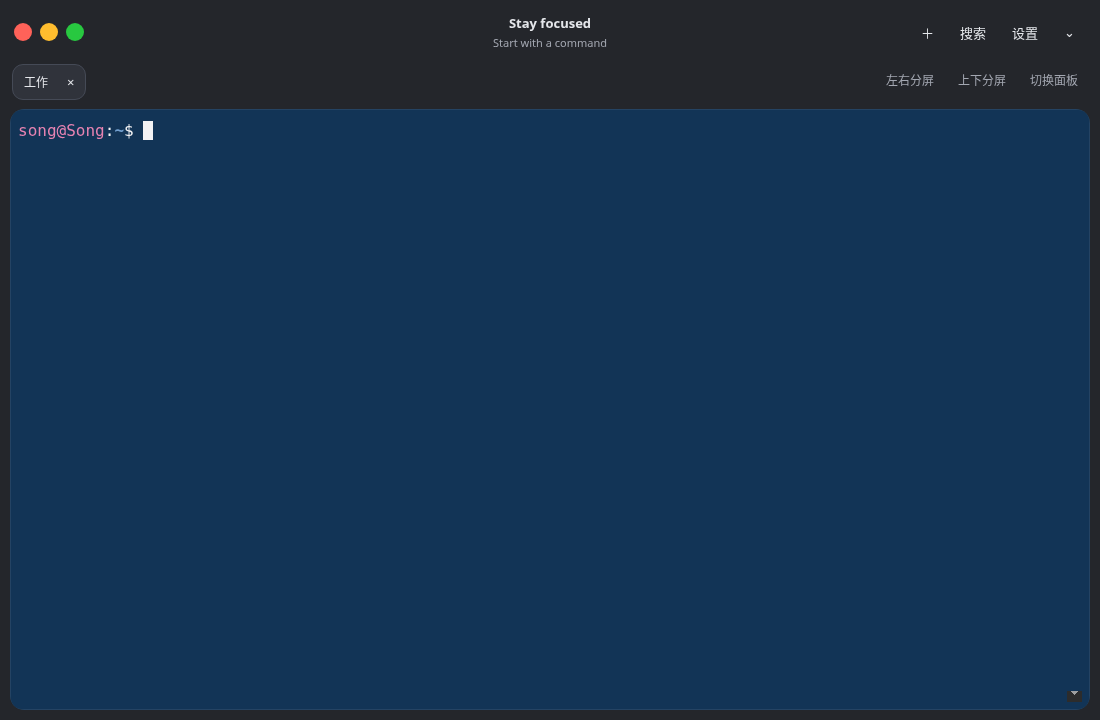
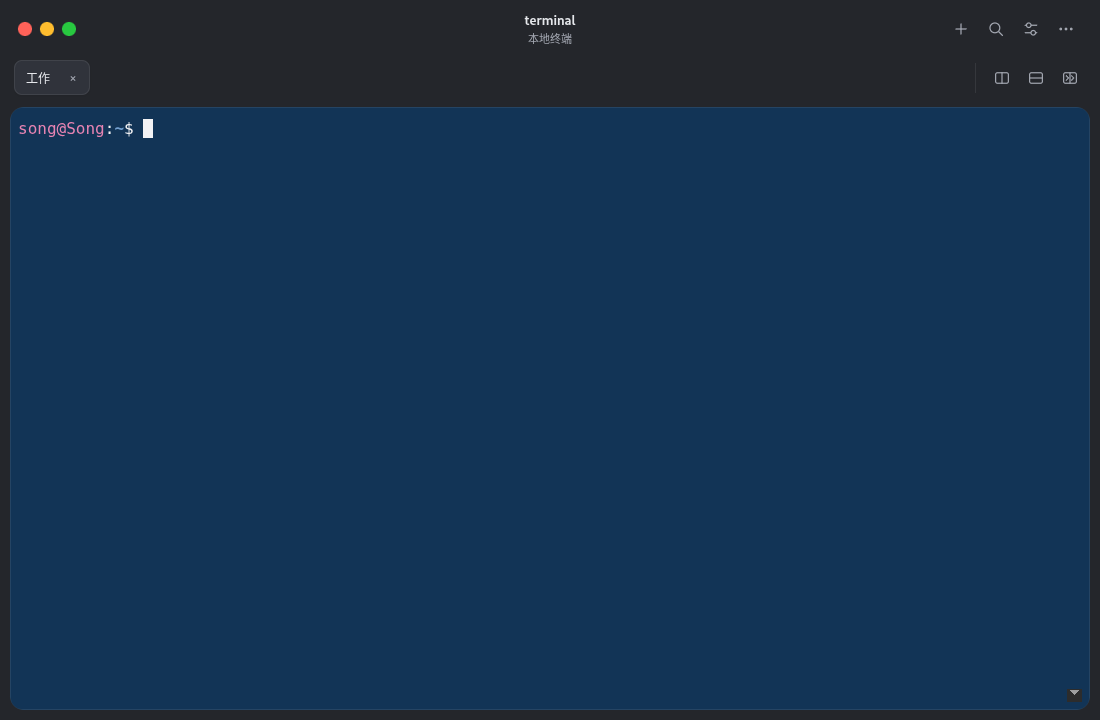
feat: add font choices and refine terminal UI with Apple styling

diff --git a/desktop/renderer/style.css b/desktop/renderer/style.css
@@ -50,12 +50,13 @@ select:focus-visible {
   outline-offset: 2px;
 }
 header {
-  height: 64px;
+  height: 58px;
   flex-shrink: 0;
-  display: flex;
+  display: grid;
+  grid-template-columns: minmax(0, 1fr) auto minmax(0, 1fr);
   align-items: center;
-  padding: 0 14px;
-  gap: 18px;
+  padding: 0 18px;
+  gap: 12px;
   -webkit-app-region: drag;
 }
 header button {
@@ -64,13 +65,15 @@ header button {
 .window-controls {
   display: flex;
   gap: 8px;
+  justify-self: start;
 }
 .traffic {
-  width: 18px;
-  height: 18px;
+  width: 14px;
+  height: 14px;
   padding: 0;
   border-radius: 50%;
-  font-size: 14px;
+  font-size: 12px;
+  line-height: 12px;
   font-weight: bold;
   color: transparent;
 }
@@ -88,32 +91,67 @@ header button {
   background: #28c840;
 }
 .heading {
-  position: absolute;
-  left: 50%;
-  transform: translateX(-50%);
   text-align: center;
   pointer-events: none;
 }
 .heading strong {
   display: block;
   font-size: 13px;
+  font-weight: 600;
 }
 .heading small {
   display: block;
   color: var(--muted);
   font-size: 11px;
-  margin-top: 3px;
+  margin-top: 2px;
 }
-nav {
-  margin-left: auto;
+header nav {
+  justify-self: end;
   display: flex;
-  gap: 4px;
+  gap: 3px;
+}
+header nav button,
+#pane-tools button {
+  display: grid;
+  place-items: center;
+  width: 32px;
+  height: 30px;
+  padding: 0;
+  border-radius: 7px;
+  color: var(--muted);
+}
+header nav button:hover,
+#pane-tools button:hover {
+  color: var(--text);
+}
+header nav button:active,
+#pane-tools button:active {
+  background: var(--border);
+}
+header svg,
+#pane-tools svg {
+  width: 18px;
+  height: 18px;
+  fill: none;
+  stroke: currentColor;
+  stroke-width: 1.6;
+  stroke-linecap: round;
+  stroke-linejoin: round;
+}
+header #settings-open circle {
+  fill: var(--chrome);
+}
+header #settings-open:hover circle {
+  fill: var(--surface);
+}
+header #menu-open circle {
+  fill: currentColor;
 }
 #tabs {
   display: flex;
-  gap: 4px;
-  padding: 0 12px 9px;
-  min-height: 40px;
+  gap: 6px;
+  padding: 2px 0;
+  min-height: 34px;
   flex-shrink: 0;
   overflow-x: auto;
 }
@@ -124,12 +162,17 @@ nav {
   min-width: 64px;
   align-items: center;
   border: 1px solid transparent;
-  border-radius: 11px;
+  border-radius: 8px;
   color: var(--muted);
 }
 .tab-wrap.selected {
   background: var(--surface);
-  border-color: var(--border);
+  border-color: var(--pane-edge);
+  box-shadow: 0 1px 3px #00000014;
+  color: var(--text);
+}
+.tab-wrap:not(.selected):hover {
+  background: var(--pane-heading);
   color: var(--text);
 }
 [role="tab"] {
@@ -142,8 +185,12 @@ nav {
   font-size: 12px;
 }
 .tab-close {
-  padding: 4px 7px;
-  margin-right: 3px;
+  width: 24px;
+  height: 24px;
+  padding: 0;
+  margin-right: 4px;
+  border-radius: 5px;
+  color: var(--muted);
 }
 main {
   position: relative;
@@ -210,14 +257,16 @@ main::before {
 .pane-heading button { width: 26px; height: 26px; padding: 0; font-size: 16px; border-radius: 7px; }
 .terminal-tab:not(.has-splits) .pane-heading { display: none; }
 .terminal-tab:not(.has-splits) .terminal-pane { padding-top: 12px; }
-.tabs-row { display: flex; align-items: flex-start; gap: 8px; flex-shrink: 0; }
-.tabs-row #tabs { flex: 1; min-width: 0; padding-right: 0; }
-#pane-tools { display: flex; gap: 4px; padding: 0 12px 0 0; height: 31px; flex-shrink: 0; }
-#pane-tools button { font-size: 12px; color: var(--muted); padding: 4px 9px; border-radius: 8px; }
-@media (max-width: 650px) {
-  .tabs-row { flex-direction: column; align-items: stretch; gap: 0; }
-  .tabs-row #tabs { padding-right: 12px; }
-  #pane-tools { padding: 0 12px 8px; }
+.tabs-row { display: flex; align-items: center; gap: 12px; padding: 0 14px 10px; flex-shrink: 0; }
+.tabs-row #tabs { flex: 1; min-width: 0; }
+#pane-tools { display: flex; gap: 2px; padding-left: 10px; border-left: 1px solid var(--pane-edge); flex-shrink: 0; }
+@media (max-width: 480px) {
+  header { padding: 0 14px; gap: 6px; }
+  .heading small { display: none; }
+  header nav { gap: 0; }
+  header nav button { width: 28px; }
+  .tabs-row { gap: 6px; }
+  #pane-tools { padding-left: 6px; }
 }
 .split-layout {
   flex: 1;
@@ -261,7 +310,88 @@ main::before {
   display: none;
 }
 #search {
-  padding: 0 14px 8px;
+  flex-shrink: 0;
+  width: min(440px, calc(100% - 28px));
+  margin: 0 14px 10px auto;
+  padding: 5px;
+  border: 1px solid var(--border);
+  border-radius: 12px;
+  background: var(--surface);
+  box-shadow: 0 2px 6px #00000014;
+}
+#search:not([hidden]) {
+  display: flex;
+  align-items: center;
+  gap: 4px;
+}
+#search .search-field {
+  display: flex;
+  align-items: center;
+  flex: 1;
+  min-width: 0;
+  gap: 8px;
+  padding-left: 7px;
+  color: var(--muted);
+}
+#search svg {
+  display: block;
+  width: 16px;
+  height: 16px;
+  flex-shrink: 0;
+  fill: none;
+  stroke: currentColor;
+  stroke-width: 1.75;
+  stroke-linecap: round;
+  stroke-linejoin: round;
+}
+#search #query {
+  width: 100%;
+  min-width: 0;
+  padding: 6px 0;
+  border: 0;
+  border-radius: 4px;
+  background: transparent;
+  line-height: 20px;
+}
+#search #query::placeholder {
+  color: var(--muted);
+}
+#search #query:focus-visible {
+  outline-offset: 3px;
+}
+#search kbd {
+  font: inherit;
+  font-size: 12px;
+  padding: 0 4px;
+  border: 1px solid var(--border);
+  border-radius: 4px;
+}
+#search .search-navigation {
+  display: flex;
+  gap: 2px;
+  margin-left: 4px;
+  padding-left: 6px;
+  border-left: 1px solid var(--border);
+}
+#search button {
+  display: grid;
+  place-items: center;
+  width: 30px;
+  height: 30px;
+  padding: 0;
+  border-radius: 7px;
+  color: var(--muted);
+}
+#search button:hover {
+  background: var(--chrome);
+  color: var(--text);
+}
+#search button:active {
+  background: var(--border);
+}
+#search:not([hidden]) + #status:not(:empty) {
+  align-self: flex-end;
+  padding: 0 20px 10px;
 }
 input,
 select {

diff --git a/desktop/renderer/index.html b/desktop/renderer/index.html
@@ -13,25 +13,32 @@
   </head>
   <body>
     <header>
-      <div class="window-controls">
+      <div class="window-controls" role="group" aria-label="窗口操作">
         <button class="traffic close" aria-label="关闭窗口">×</button
         ><button class="traffic minimize" aria-label="最小化">−</button
         ><button class="traffic maximize" aria-label="最大化">+</button>
       </div>
       <div class="heading">
-        <strong>Stay focused</strong><small>Start with a command</small>
+        <strong>terminal</strong><small>本地终端</small>
       </div>
-      <nav>
-        <button id="new" aria-label="新建标签页">＋</button
-        ><button id="search-open">搜索</button
-        ><button id="settings-open">设置</button
+      <nav aria-label="终端工具">
+        <button id="new" aria-label="新建标签页" title="新建标签页">
+          <svg aria-hidden="true" viewBox="0 0 24 24"><path d="M12 5v14M5 12h14"/></svg>
+        </button
+        ><button id="search-open" aria-label="搜索" title="搜索">
+          <svg aria-hidden="true" viewBox="0 0 24 24"><circle cx="10.5" cy="10.5" r="6.5"/><path d="m16 16 4.5 4.5"/></svg>
+        </button
+        ><button id="settings-open" aria-label="设置" title="设置">
+          <svg aria-hidden="true" viewBox="0 0 24 24"><path d="M4 7h16M4 17h16"/><circle cx="9" cy="7" r="3"/><circle cx="15" cy="17" r="3"/></svg>
+        </button
         ><button
           id="menu-open"
           aria-label="更多操作"
           aria-expanded="false"
           popovertarget="menu"
+          title="更多操作"
         >
-          ⌄
+          <svg aria-hidden="true" viewBox="0 0 24 24"><circle cx="5" cy="12" r="1"/><circle cx="12" cy="12" r="1"/><circle cx="19" cy="12" r="1"/></svg>
         </button>
       </nav>
     </header>
@@ -56,16 +63,28 @@
     <div class="tabs-row">
       <div id="tabs" role="tablist" aria-label="终端标签页"></div>
       <div id="pane-tools" role="toolbar" aria-label="分屏操作">
-        <button id="split-horizontal" title="左右分屏 · Ctrl+Shift+H" aria-keyshortcuts="Control+Shift+H">左右分屏</button>
-        <button id="split-vertical" title="上下分屏 · Ctrl+Shift+J" aria-keyshortcuts="Control+Shift+J">上下分屏</button>
-        <button id="next-pane" title="切换面板 · Ctrl+Shift+O" aria-keyshortcuts="Control+Shift+O">切换面板</button>
+        <button id="split-horizontal" title="左右分屏 · Ctrl+Shift+H" aria-keyshortcuts="Control+Shift+H" aria-label="左右分屏"><svg aria-hidden="true" viewBox="0 0 24 24"><rect x="3.5" y="5" width="17" height="14" rx="2.5"/><path d="M12 5v14"/></svg></button>
+        <button id="split-vertical" title="上下分屏 · Ctrl+Shift+J" aria-keyshortcuts="Control+Shift+J" aria-label="上下分屏"><svg aria-hidden="true" viewBox="0 0 24 24"><rect x="3.5" y="5" width="17" height="14" rx="2.5"/><path d="M3.5 12h17"/></svg></button>
+        <button id="next-pane" title="切换面板 · Ctrl+Shift+O" aria-keyshortcuts="Control+Shift+O" aria-label="切换面板"><svg aria-hidden="true" viewBox="0 0 24 24"><rect x="3.5" y="5" width="17" height="14" rx="2.5"/><path d="M12 5v14m2-10 3 3-3 3m-7-6 3 3-3 3"/></svg></button>
       </div>
     </div>
-    <form id="search" hidden>
-      <label>搜索内容 <input id="query" aria-label="搜索内容" /></label
-      ><button type="submit">下一个</button
-      ><button type="button" id="search-prev">上一个</button
-      ><button type="button" id="search-close" aria-label="关闭搜索">×</button>
+    <form id="search" role="search" aria-label="搜索当前面板" hidden>
+      <div class="search-field">
+        <svg aria-hidden="true" viewBox="0 0 24 24"><circle cx="10.5" cy="10.5" r="6.5"/><path d="m16 16 4.5 4.5"/></svg>
+        <input id="query" aria-label="搜索内容" placeholder="搜索当前面板…" autocomplete="off" spellcheck="false" />
+        <kbd aria-hidden="true">↵</kbd>
+      </div>
+      <div class="search-navigation" role="group" aria-label="搜索导航">
+        <button type="button" id="search-prev" aria-label="上一个" title="上一个匹配项">
+          <svg aria-hidden="true" viewBox="0 0 24 24"><path d="m6 14 6-6 6 6"/></svg>
+        </button>
+        <button type="submit" aria-label="下一个" title="下一个匹配项 · Enter">
+          <svg aria-hidden="true" viewBox="0 0 24 24"><path d="m6 10 6 6 6-6"/></svg>
+        </button>
+      </div>
+      <button type="button" id="search-close" aria-label="关闭搜索" title="关闭搜索 · Esc">
+        <svg aria-hidden="true" viewBox="0 0 24 24"><path d="m7 7 10 10M7 17 17 7"/></svg>
+      </button>
     </form>
     <div id="status" role="status" aria-live="polite"></div>
     <main id="terminals"></main>
@@ -94,8 +113,11 @@
           ><label
             >字体<input
               name="font_family"
-              list="font-list"
-              maxlength="100" /><datalist id="font-list"></datalist></label
+              maxlength="100" /></label
+          ><label
+            >可选字体<select id="font-list">
+              <option value="">选择已安装字体</option>
+            </select></label
           ><label
             >字体大小<input
               name="font_size"

diff --git a/desktop/renderer/app.js b/desktop/renderer/app.js
@@ -511,6 +511,7 @@ function populate() {
     "wallpaper_opacity",
   ])
     form.elements[name].value = settings[name] ?? "";
+  $("font-list").value = settings.font_family;
   $("settings-error").textContent = "";
 }
 $("settings-open").onclick = () => {
@@ -519,7 +520,10 @@ $("settings-open").onclick = () => {
   populate();
   $("settings").showModal();
 };
-form.oninput = () => {
+form.oninput = (event) => {
+  if (event?.target === $("font-list") && $("font-list").value)
+    form.elements.font_family.value = $("font-list").value;
+  $("font-list").value = form.elements.font_family.value;
   try {
     apply(values());
     $("settings-error").textContent = "";
